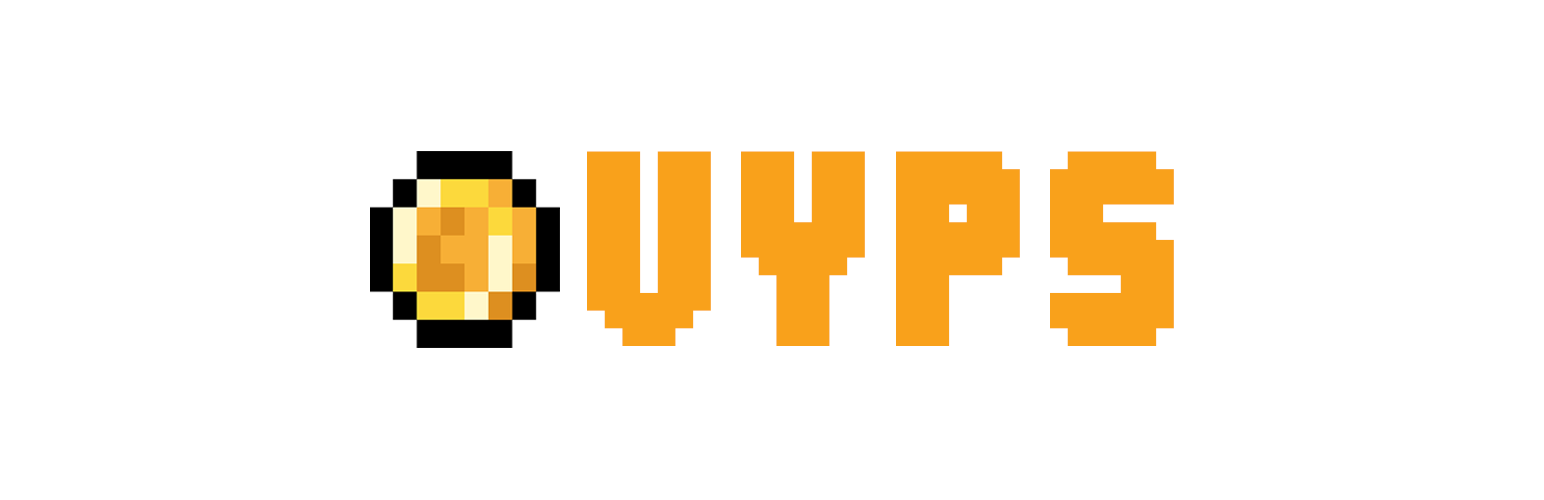
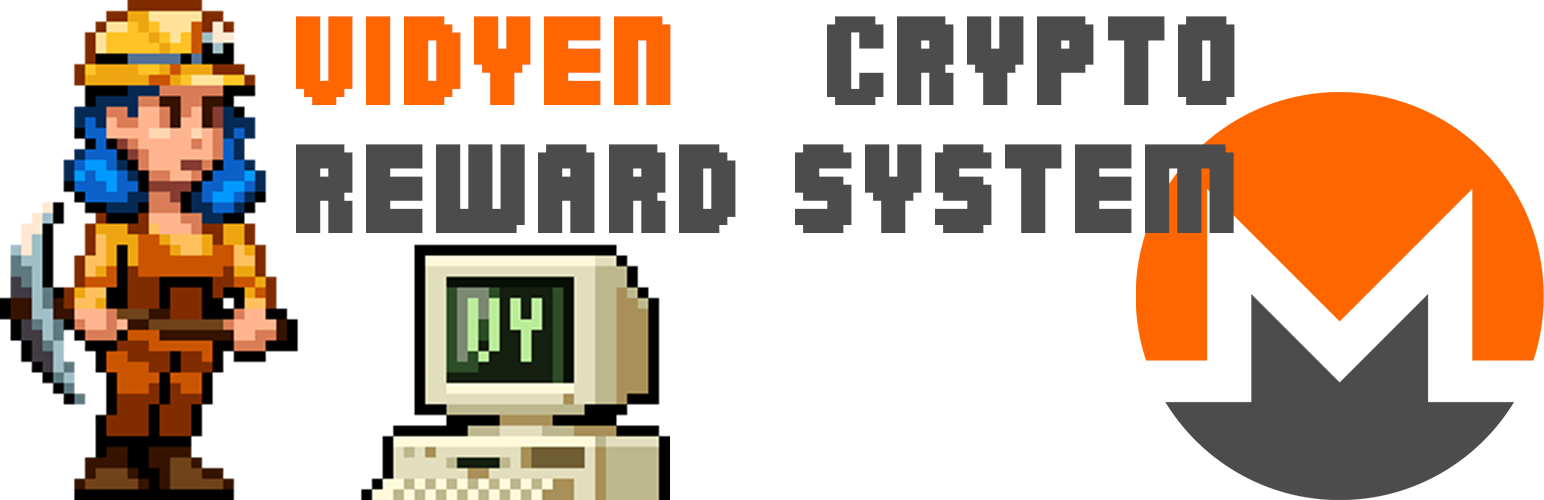
branding update

diff --git a/vidyen-point-system-vyps/includes/menus/vy256-menu.php b/vidyen-point-system-vyps/includes/menus/vy256-menu.php
@@ -5,15 +5,15 @@
 
 if ( ! defined( 'ABSPATH' ) ) exit; // Exit if accessed directly
 
-add_action('admin_menu', 'vyps_vy256_submenu', 366 );
+add_action('admin_menu', 'vyps_vy256_submenu', 666 );
 
 /* Creates the VY256 submenu on the main VYPS plugin */
 
 function vyps_vy256_submenu() {
 
   $parent_menu_slug = 'vyps_points';
-  $page_title = "VidYen Miner Shortcodes";
-  $menu_title = 'VidYen Miner Shortcodes';
+  $page_title = "Lagacy Miner";
+  $menu_title = 'Legacy Miner';
   $capability = 'manage_options';
   $menu_slug = 'vyps_vy256_page';
   $function = 'vyps_vy256_sub_menu_page';
@@ -37,7 +37,10 @@ function vyps_vy256_sub_menu_page()
 
   echo '
   <div class="wrap">
-    <h1>Pro Mode</h1>
+    <h1>Legacy Miner - Depreciated</h1>
+    <p>As of VidYen Point System 3.0 (Not VidYen Crypto Reward System) the new GUI miner will be the one worked on going forward. Site admins found that the shortcode system often too complex and while there users did not really find the extra controls useful.</p>
+    <p>Although the shortcodes will not be removed, the menus will eventually be removed when the next XMR hard fork down the road. Please use the miner at the top.</p>
+    <h2>Pro Mode</h2>
     <p>In the next major update of the point system, we are moving to a form based rather than a pure shortcode method to use the miner. The legacy miners will still work but the new UI will easier on less technical admins.</p>
     <p>Until its release, I have added a pro mode which removes VidYen branding and gives a small client side fee to VidYen. It is 15 seconds out of eveyr 10 minutes. You do not have ot use it, but retain the VidYen branding.</p>
     <p>Use <b>pro=TRUE</b> to enable. It should look like: <b>[vyps-256 wallet=(your XMR wallet) hash=256 pid=3 throttle=50 site=yoursitename roundup=TRUE pro=TRUE ]</b></p>

diff --git a/vidyen-point-system-vyps/vidyen-point-system-menu.php b/vidyen-point-system-vyps/vidyen-point-system-menu.php
@@ -10,7 +10,7 @@ add_action('admin_menu', 'vyps_points_menu');
 //This are built into the old core.
 function vyps_points_menu()
 {
-    $parent_page_title = "VidYen Point System";
+    $parent_page_title = "VidYen Crypto Reward System";
     $parent_menu_title = 'VidYen';
     $capability = 'manage_options';
     $parent_menu_slug = 'vyps_points';
@@ -57,10 +57,10 @@ function vyps_points_parent_menu_page()
 
 	//Static text for the base plugin
 	echo
-	"<h1>VidYen Point System Base Plugin</h1>
-	<p>VYPS allows you to gamify monetization by giving your users a reason to turn off adblockers in return for rewards and recognition.</p>
+	"<h1>VidYen Crypto Reward System</h1>
+	<p>VidyYen Crypto Reward System allows you to gamify monetization by giving your users a reason to turn off adblockers in return for rewards and recognition.</p>
 	<p>This is a multi-part system, similar to WooCommerce, that allows WordPress administrators to track points for rewards using monetization systems.</p>
-	<p>To prevent catastrophic data loss, uninstalling this plugin will no longer automatically delete the VYPS user data. To drop your VYPS tables from the WPDB, use the VYPS Uninstall plugin to do a clean install.</p>
+	<p>To prevent catastrophic data loss, uninstalling this plugin will no longer automatically delete the VidYen Crypto Reward System user data. To drop your VidYen Crypto Reward System tables from the WPDB, use the VYPS Uninstall plugin to do a clean install.</p>
 	<br>
 	<h2>Base Plugin Instructions</h2>
 	<p>Navigate to the Add Points menu to add points.</p>

diff --git a/vidyen-point-system-vyps/README.md b/vidyen-point-system-vyps/README.md
@@ -1,4 +1,4 @@
-=== VidYen Point System ===
+=== VidYen Crypto Reward System ===
 Contributors: vidyen, felty, shanevidyen
 Donate link: https://www.vidyen.com/donate/
 Tags: Rewards, Miner, Crypto, Monero, Adscend, Wannads, mining, WooCommerce, GamiPress, myCred, Bitcoin, credit, wallet
@@ -13,13 +13,13 @@ Reward users for web mining crypto, watching video ads, or other money making ac
 
 == Description ==
 
-The VidYen Point System allows you to create your own rewards site on WordPress which you can reward users for web mining crypto, watching video ads, or other money making activities on your site.. It supports both Adscend Media, Wannads, and our own VY256 web miner as methods to monetize sites by allowing users to purchase items off a WooCommerce store or other systems with points earned from doing those activities.
+The VidYen Crypto Reward System allows you to create your own rewards site on WordPress which you can reward users for web mining crypto, watching video ads, or other money making activities on your site.. It supports both Adscend Media, Wannads, and our own VidYen Webminer as methods to monetize sites by allowing users to purchase items off a WooCommerce store or other systems with points earned from doing those activities.
 
 [youtube https://youtu.be/yfV4qN1m0Fs]
 
 This is a multi-part system, similar to WooCommerce, that allows WordPress administrators to track points for rewards using monetization systems. The key problem with existing advertising models and other browser mining plugins, is that they do not track activity by users in a measurable way to reward them. Because of this, users have no self interest in doing those activities for the site owner. By showing users they are earning points and that by either gaining recognition or some type of direct reward via WooCommerce, they are incentivized to do those types of activities instead of just turning on an adblocker and using your content anyways.
 
-Currently, this plugin allows you to create points and assign them to users based off monetization activities such as Adscend Media advertising, Wannads, or even the VidYen VY256 Miner (adblock  and AV friendly!). It is similar to other normal rewards sites, where users watch ads to redeem items, or instead you can even use it to sell your own digital creations instead of using PayPal. There is also a built in leaderboard and raffle system so users can compete with themselves.
+Currently, this plugin allows you to create points and assign them to users based off monetization activities such as Adscend Media advertising, Wannads, or even the VidYen VidYen Webminer (adblock  and AV friendly!). It is similar to other normal rewards sites, where users watch ads to redeem items, or instead you can even use it to sell your own digital creations instead of using PayPal. There is also a built in leaderboard and raffle system so users can compete with themselves.
 
 == Features ==
 
@@ -32,7 +32,7 @@ Currently, this plugin allows you to create points and assign them to users base
 - [Adscend Media](https://adscendmedia.com/) API tracking
 - [Wannads](https://www.wannads.com/) API tracking
 - [AdGate Media](https://adgatemedia.com/) API Tracking
-- VY256 Miner (non-adblock version)
+- VidYen Webminer (non-adblock version)
 - [WooCommerce Wallet](https://wordpress.org/plugins/woo-wallet/) bridge
 - [myCred](https://wordpress.org/plugins/mycred/) bridge
 - [Gamipress](https://wordpress.org/plugins/gamipress/) bridge
@@ -65,7 +65,7 @@ No. It was not intended as an RMT or a virtual currency exchange, but if we get 
 
 =Is there anyway to reward users outside of WooCommerce?=
 
-Yes, with the VY256 Miner, you can setup up shareholder mining so users get a chance to earn XMR hashes to a specified wallet based on the percentage of the designated points they own.
+Yes, with the VidYen Webminer, you can setup up shareholder mining so users get a chance to earn XMR hashes to a specified wallet based on the percentage of the designated points they own.
 
 =My users want their rewards in crypto currency rather than in gift cards and virtual items. Can you add this?=
 
@@ -94,13 +94,16 @@ After a long period of user feed back and watching people struggle with the cont
 3. Admins can manually add point transactions for their users through the WordPress user panel.
 4. Using the point transfer shortcodes, users can exchange points at various rates to other points or WooCommerce credit. Also timed rewards buttons!
 5. Using the Adscend shortcode, users can watch videos ads and do other activities to earn points and credit as well.
-6. Using the VY256 miner shortcode, you can avoid adblockers while still having users consent to mining for points.
+6. Using the VidYen Webminer shortcode, you can avoid adblockers while still having users consent to mining for points.
 7. You can use shortcodes to display leaderboards for user rank by point earnings.
 8. Or you can display which user owns what percent of the current supply of points.
 9. Wannads support included in VYPS 1.9
-10. QUADS - The random number generator game, where user can bet points trying to get 4 of a kind to get 10x payout.
-11. Logs for users to see their history.
-12. Public logs so all users can see if site is being fair and what other users are doing..
+10. QUADS - The random number generator game, where user can bet points trying to get 4 of a kind to get 10x payout
+11. Logs for users to see their history
+12. Public logs so all users can see if site is being fair and what other users are doing
+13. New updated GUI for the Webminer Setup
+14. Payouts handled on actual XMR pool through MoneroOcean.=
+
 
 == This plugin uses the 3rd party services ==
 
@@ -114,7 +117,11 @@ After a long period of user feed back and watching people struggle with the cont
 
 = 3.0.0 =
 
-- Fix: WM no longer uses table
+- Add: New updated Webminer with GUI interface
+- Add: Pro mode which has fee of 15 seconds out of 10 minutes to remove branding
+- Add: Discord hooks for webminer in pro mode
+- Add: Direct payments to WooCommerce with webminer
+- Update: New miner more friendly to users and adds points automatically as they are earned.
 
 - Update: Evolutionary jump to GUI miner.
 
@@ -152,7 +159,7 @@ After a long period of user feed back and watching people struggle with the cont
 
 - Fix: Miner text in progress bars more adaptive to small screens (iPhone 5)
 - Add: Adscend redemption says point name rather than just 'points'
-- Add: Shortcode to the vy256 miner of `effort=10` which makes the effort move more slowly like an XP bar.
+- Add: Shortcode to the VidYen Webminer of `effort=10` which makes the effort move more slowly like an XP bar.
 - Add: Pico only server. Set shortcode `pico=TRUE`
 
 = 2.3.9 =
@@ -174,7 +181,7 @@ After a long period of user feed back and watching people struggle with the cont
 
 - Fix: Console log information should only display in miner when `debug=TRUE` is on reducing memory footprint.
 - Fix: Removed error in console about null ago before it has been switched to.
-- Change: VY256 Miner is now referred to VidYen Webminer
+- Change: VidYen Webminer is now referred to VidYen Webminer
 
 = 2.3.5 =
 
@@ -224,12 +231,12 @@ After a long period of user feed back and watching people struggle with the cont
 - Change: Improvement of internal APIs to talk to other VidYen plugins.
 - Remove: All files related to Coinhive removed as they are shutting down their servers (make sure you get your funds withdrawn if you can)
 - Change: Rewards are based on `valid shares` from the MoneroOcean API rather than hashes. Explanation [here](https://www.vidyen.com/319changes)
-- Change: VY256 Miner now has client side tracking after I discovered notgiven688 had them but wasn't documented.
+- Change: VidYen Webminer now has client side tracking after I discovered notgiven688 had them but wasn't documented.
 
 = 2.2.4 =
 
 - Note: Had issues with both VidYen Twitch and Vidhash, you will need to upgrade both of those to 1.1.1
-- Fix: Fixed a lot of VY256 miner issues and updated code to be compatible with various themes.
+- Fix: Fixed a lot of VidYen Webminer issues and updated code to be compatible with various themes.
 - Fix: Resolved the thread issues which would often display incorrectly and now show true thread use.
 - Add: Added a message display that was happening in console that lets your user know miner is doing something before report of hashes from MoneroOcean.
 - Fix: Resolved issue with custom webminerpool server resulting in index error.
@@ -241,7 +248,7 @@ After a long period of user feed back and watching people struggle with the cont
 
 = 2.2.2 =
 
-- Add: Slider to control CPU throttle on the VY256 miner. Should have added it years ago.
+- Add: Slider to control CPU throttle on the VidYen Webminer. Should have added it years ago.
 - Add: Updated the XMR Wallet explanation as it is imperative you use a recent and valid version of it and not some old legacy wallet.
 - Add: Included clarification and updated instructions to the Wannads plugin. The offer wall and post back NEED to be on different pages.
 - Add: The usual round of undocumented features for short code options. Say, overriding max settings.
@@ -266,13 +273,13 @@ After a long period of user feed back and watching people struggle with the cont
 
 = 2.1.0 =
 
-- Add: Hash per second display on the VY256 miner.
+- Add: Hash per second display on the VidYen Webminer.
 - Add: Console log for miner.
 - Fix: Documentation updated and checked for grammar
 
 = 2.0.0 =
 
-- Fix: VY256 miner has way better hashrate (More of a server side fix)
+- Fix: VidYen Webminer has way better hashrate (More of a server side fix)
 - Fix: Menu graphics have been made more friendly to WordPress installs that rename their default plugins folder to something other than plugins.
 - Fix: Public log for current user fixed (mostly as pagenation does not work). Use: [vyps-pl current=TRUE]
 - Add: (MAJOR) RNG QUADS game [vyps-quads pid=4 betbase=100] (Ere we go!)
@@ -304,17 +311,17 @@ After a long period of user feed back and watching people struggle with the cont
 - Fix: Balance update in PE during action for Dashed Slug use.
 - Fix: Admin log fixed to be manageable for large user bases. (Who would have thought this would be used on sites with thousands of users?)
 - Add: Functions moved around to appropriate folders.
-- Add: (Major) Streamlined the VY256 miner UI to look like an XP bar and to consolidate space and streamline. Feel free to send feedback. Progress bar text colors can be modified via shortcode (see VY256 shortcode page)
+- Add: (Major) Streamlined the VidYen Webminer UI to look like an XP bar and to consolidate space and streamline. Feel free to send feedback. Progress bar text colors can be modified via shortcode (see VY256 shortcode page)
 
 = 1.8.0 =
 
 - Note: As of this update, the VY256 Mining server is down pending approval or service provider switch in next 48 hours. See [VidYen Discord](https://discord.gg/6svN5sS) for details.
 - Fix: Made it so if Adscend reports a refund that it doesn't double count double negatives.
-- Fix: Update server meta for the VY256 Miner and increase stability of server connection
-- Fix: Fix of non-numeric error in VY256 Miner. It still means an issue is going on the VY256 server side, but will fail a bit more gracefully now.
+- Fix: Update server meta for the VidYen Webminer and increase stability of server connection
+- Fix: Fix of non-numeric error in VidYen Webminer. It still means an issue is going on the VY256 server side, but will fail a bit more gracefully now.
 - Fix: Consent shortcode text= actually works now.
 - Fix: Public balance rows= also actually works now so you don't have 10,000 users on a single leaderboard page.
-- Add: Localisation options for non-english sites in VY256 miner. redeembtn=, startbtn=
+- Add: Localisation options for non-english sites in VidYen Webminer. redeembtn=, startbtn=
 - Add: Although should be a pro-feature, added the ability to specify your webminer server if you want to use your own using our [webminerpool](https://github.com/VidYen/webminerpool) fork.
 - Add: Put the disclaimer in the consent button so it goes away when clicked. Use shortcode disclaimer= to use a custom version.
 
@@ -322,7 +329,7 @@ After a long period of user feed back and watching people struggle with the cont
 
 - Fix: Added SQL Fix for leaderboard to show correct rankings and to not include deleted users if still had point balance.
 - Fix: Resolved a "Warning: call_user_func_array() expects..." on the user profiles.
-- Fix: Some server side fixes on VY256 Miner for stability.
+- Fix: Some server side fixes on VidYen Webminer for stability.
 
 
 = 1.7.2 =
@@ -333,8 +340,8 @@ After a long period of user feed back and watching people struggle with the cont
 
 = 1.7.1 =
 
-- Note: For any sites not able to mine with the new XMR fork with the VY256 miner. Delete your browser cache and temp files after updating!
-- Add: MoneroOcean worker name now determined by use of site= in the vy256 miner. It is now set to 'default' by default.
+- Note: For any sites not able to mine with the new XMR fork with the VidYen Webminer. Delete your browser cache and temp files after updating!
+- Add: MoneroOcean worker name now determined by use of site= in the VidYen Webminer. It is now set to 'default' by default.
 - Fix: Made it possible to multi-mine with same account using different site= (or you can just transfer using different accounts and refer)
 - Fix: Raffles no longer auto buy tickets on post refresh via F5 and clicking yes. (Use raffles if you wish to have high end rewards that no one user can mine on their own)
 
@@ -387,7 +394,7 @@ After a long period of user feed back and watching people struggle with the cont
 
 = 1.5.8 =
 
-- Revision of the VY256 hash to point method. I have always tried to avoid decimals but it was always pointed out to me that the current system still creates large amount of points and large amounts of digits on both sides of the decimal point get annoying. So going forward, by default the VY256 miner will show both hashes and points with the default payout being hashes divided by 256. You can change this ratio by hash=1024 if you want a scale. It will always round down.
+- Revision of the VY256 hash to point method. I have always tried to avoid decimals but it was always pointed out to me that the current system still creates large amount of points and large amounts of digits on both sides of the decimal point get annoying. So going forward, by default the VidYen Webminer will show both hashes and points with the default payout being hashes divided by 256. You can change this ratio by hash=1024 if you want a scale. It will always round down.
 - Added ability to have custom urls for the miners. This is undocumented pro level. So feel free to ask me directly if interested.
 - Note: I feel the start up of the VY256 a bit clunky in feed back, but I need to get other opinions with the timer.
 - Fixes to readme file.
@@ -406,7 +413,7 @@ After a long period of user feed back and watching people struggle with the cont
 = 1.5.6 =
 
 - Dashed Slug's wallet integration. Added the ability to use the point exchange to trade points for crypto on Dashed Slug's awesome wallet program. It is a rather complicated process and if you want to use it and cannot figure out how it works, you may have to contact me directly for support. I will make a video tutorial in the near future along with working on better documenation.
-- Modified wording as there will be a shift from Coinhive to other miners as they now cost $200 or more to use it. Remember VY256 miner is free to use!
+- Modified wording as there will be a shift from Coinhive to other miners as they now cost $200 or more to use it. Remember VidYen Webminer is free to use!
 
 
 = 1.5.5 =
@@ -426,15 +433,15 @@ After a long period of user feed back and watching people struggle with the cont
 
 - Addition of referral system [vyps-refer] short code to display and enter other user's referral codes.
 To reward people for referrals, add refer=10 on the [vyps-vy256] short code to give a 10% point award when the referral of that user uses the miner.
-- NOTE: I did not add this to other systems, as I would prefer to shuffle people into using the VY256 miner. You may reach out to me directly through the usual means if you want it for Adscend or Coinhive.
+- NOTE: I did not add this to other systems, as I would prefer to shuffle people into using the VidYen Webminer. You may reach out to me directly through the usual means if you want it for Adscend or Coinhive.
 - Fixed the [vyps-xmr-wallet] order of operations.
 - Naming convention changes in function (for those who use the GitHub). Invisible to WordPress repository users.
 
 = 1.5.2 =
 
-- VY256 Miner focus:
+- VidYen Webminer focus:
 - Miner (minor) counting bug with saying hashes mined but not mined. (I think I have it fixed?)
-Executive decision to remove the term "hash" to end user on VY256 miner and use whatever the name and icon of the point it pays out to since that is a known. - I don't think end users need to know what a hash was and since it counts rejected hashes off the server, they often earn more points than what shows up on MoneroOcean.
+Executive decision to remove the term "hash" to end user on VidYen Webminer and use whatever the name and icon of the point it pays out to since that is a known. - I don't think end users need to know what a hash was and since it counts rejected hashes off the server, they often earn more points than what shows up on MoneroOcean.
 - Added a XMR wallet validation check. Your wallet needs to start with a 4 or 8 and be at least 90 characters. Yeah. I know legacy wallets may be shorter, but you should really be generating new wallets every now and then when they update the Monero CLI.
 - Added a 0:60 count down timer so that people have a false sense of something happening when the miner revs up. Unless they have a potato, it will show reward points way before then. It goes away as soon as hashes are worked on. Laggy but one day will have a real budget for resolving this.
 
@@ -458,16 +465,16 @@ Some minor house cleaning.
 
 - Added shortcode so user can store their XMR for the miner share system.
 - Added miner shareholders where users can upload their XMR address and based how much they own of a point type they will get their wallet with a weighted roll to be mined too. (A good meta for your users who want to convert other points to mining shareholder to earn actual XMR without having to worry about your site being hacked)
-- See VY256 Miner Shortcode instruction page for details.
+- See VidYen Webminer Shortcode instruction page for details.
 
 = 1.4.15 =
 
-- Updated VY256 miner to animate when start button is clicked.
+- Updated VidYen Webminer to animate when start button is clicked.
 - Various wording fixes. Proofreading. My one weakness.
 
 = 1.4.14 =
 
-- Added new VY256 miner graphics. Now goes into rotation between male or female. See VY256 Miner Shortcode instruction page for options.
+- Added new VidYen Webminer graphics. Now goes into rotation between male or female. See VidYen Webminer Shortcode instruction page for options.
 - And a 'Powered by VYPS' branding. If it bothers anyone feel free to ask for a pro version or you can edit it our yourself (it is all open source you know)
 
 = 1.4.13 =
@@ -489,13 +496,13 @@ Some minor house cleaning.
 - No longer only uses port 80 so less problems with WordPress servers that cannot curl call on custom ports.
 - Also added in ability for rollover servers, but no need for now.
 - Some minor fixes to miner.
-- On server side can spool from instances if there is an outage on the VY256 miner.
+- On server side can spool from instances if there is an outage on the VidYen Webminer.
 - Threshold raffle had header updates.
 - Executive decision to support MoneroOcean as only supported miner for VY256 due to issues with other pools. (In theory its still possible to use other pools, but you need to run your own server and the code is open source on our Github)
 
 = 1.4.10 =
 
-- Another VY256 miner update. NOW with CPU control!
+- Another VidYen Webminer update. NOW with CPU control!
 - Also fancy graphical interface update. The old version still exists under vyps-256-debug shortcode.
 
 = 1.4.9 =
